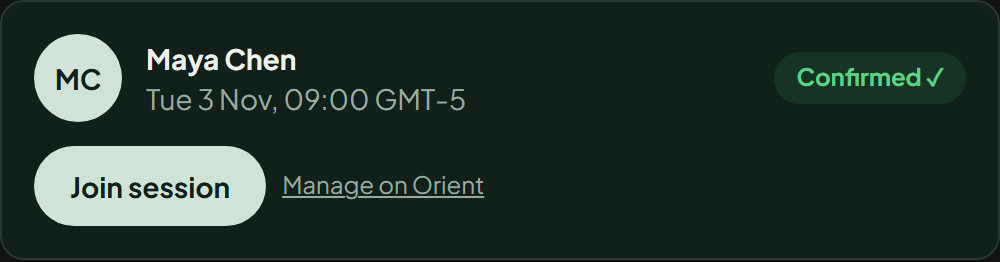
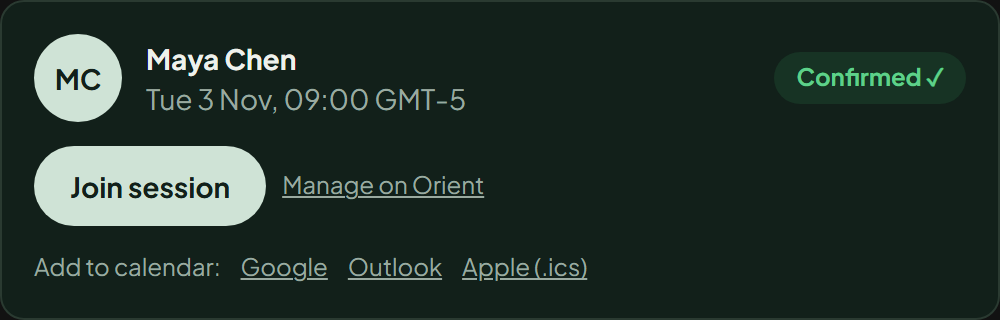
1.2.0: calendar links on confirmed sessions; CRLF-safe skill check

diff --git a/skills/orient/SKILL.md b/skills/orient/SKILL.md
@@ -39,7 +39,7 @@ A booking only pays off if the user shows up prepared, so after each step offer 
 - **Pick what fits the moment:**
   - *Before booking:* offer to draft the `notes` (what they want to cover) from what you know of their goal. The mentor prepares from it.
   - *Right after `book_session`:* a tentative calendar hold at the slot, in the user's time zone, titled with the mentor's name and with `manageUrl` in the description. If they haven't paid yet, a reminder to pay is the alternative.
-  - *Once `get_session` shows it confirmed:* add the meeting link to the hold (or create the event), and offer a reminder shortly before the session.
+  - *Once `get_session` shows it confirmed:* add the meeting link to the hold (or create the event), and offer a reminder shortly before the session. Without a calendar tool, give the session's `calendar` link that fits their calendar instead (`googleUrl`, `outlookUrl`, or `icsUrl` for Apple and desktop Outlook). The card already shows these, so only mention them in text when no card is shown.
   - *Before the session:* offer three or four questions to ask, tailored to the mentor's background (`get_mentor`) and the user's goal.
   - *After a past session:* offer to write up takeaways and action items, then a review (confirm wording first, as above). If it fits, offer to look at another time with the same mentor.
 - **Keep the calendar true.** If the user says they cancelled or rescheduled on the website, offer to remove or move the entry you made.
